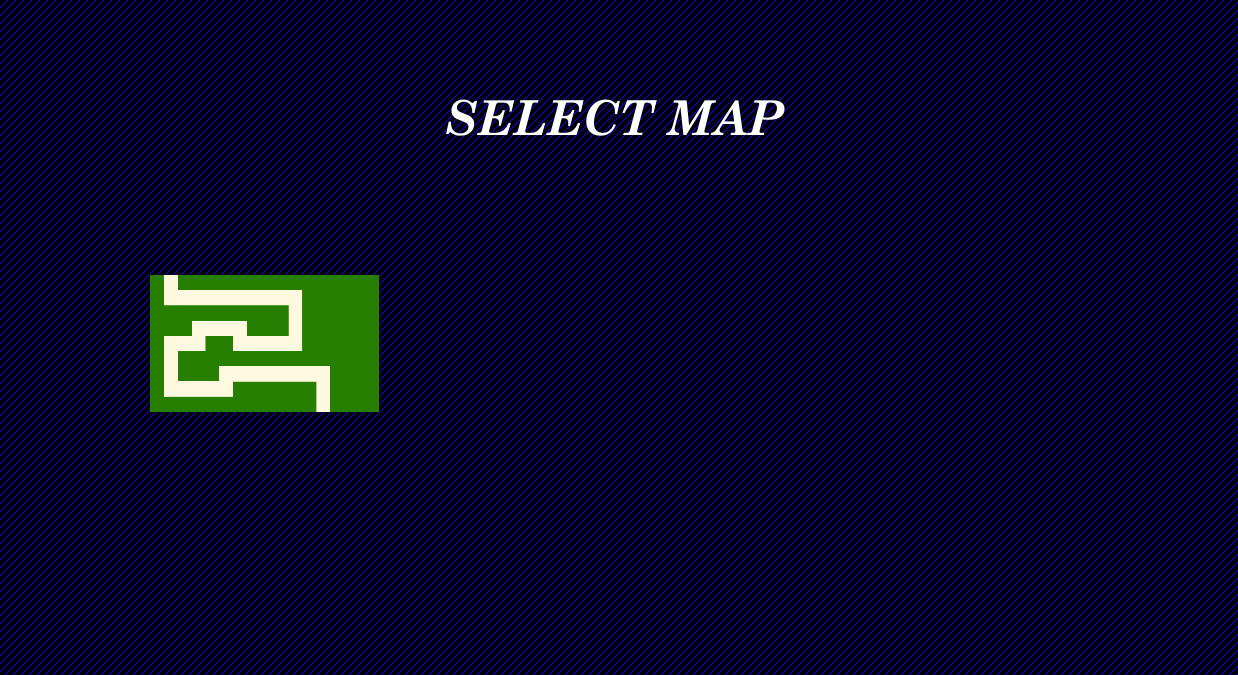
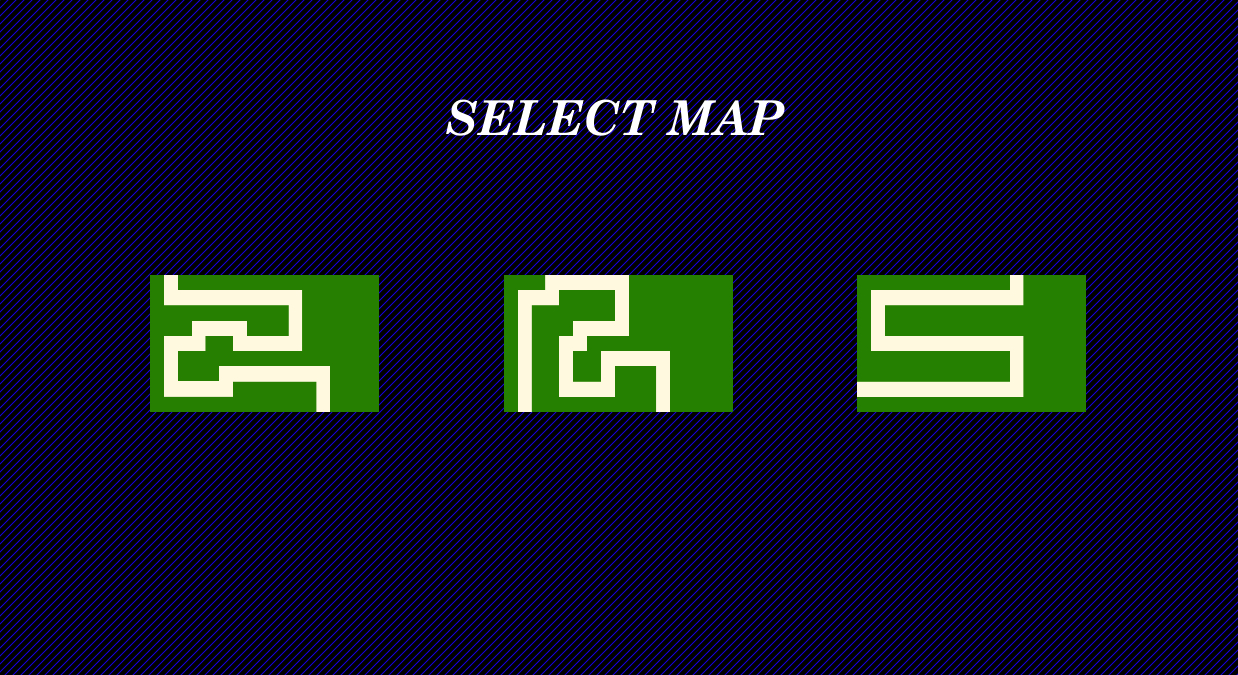
koet

Changed region(s): [[0.6753, 0.4044, 0.8901, 0.6222], [0.399, 0.4044, 0.6139, 0.6222]]

diff --git a/src/main/java/game/scenes/MapSelector.java b/src/main/java/game/scenes/MapSelector.java
@@ -6,11 +6,6 @@ import com.github.hanyaeger.api.scenes.StaticScene;
 import com.github.hanyaeger.api.scenes.YaegerScene;
 import game.BonkTheTowerTD;
 import game.buttons.SceneSwitchButton;
-import javafx.scene.paint.Color;
-import javafx.scene.text.Font;
-import javafx.scene.text.FontWeight;
-
-import static javafx.scene.paint.Color.rgb;
 
 public class MapSelector extends StaticScene implements YaegerScene {
     private BonkTheTowerTD bonkTheTowerTD;
@@ -27,17 +22,17 @@ public class MapSelector extends StaticScene implements YaegerScene {
     @Override
     public void setupEntities() {
         var map1 = new SceneSwitchButton(
-                new Coordinate2D(getWidth() / bonkTheTowerTD.buttonWidthLeft, getHeight() / bonkTheTowerTD.buttonHeightBelowCenter), this.bonkTheTowerTD, 1, "Map 1");
+                new Coordinate2D(getWidth() / bonkTheTowerTD.buttonWidthLeft, getHeight() / bonkTheTowerTD.buttonHeightBelowCenter), this.bonkTheTowerTD, 2, "Map 1");
         map1.setAnchorPoint(AnchorPoint.CENTER_RIGHT);
         addEntity(map1);
 
         var map2 = new SceneSwitchButton(
-                new Coordinate2D(getWidth() / bonkTheTowerTD.buttonWidthCenter, getHeight() / bonkTheTowerTD.buttonHeightBelowCenter), this.bonkTheTowerTD, 1, "Map 2");
+                new Coordinate2D(getWidth() / bonkTheTowerTD.buttonWidthCenter, getHeight() / bonkTheTowerTD.buttonHeightBelowCenter), this.bonkTheTowerTD, 3, "Map 2");
         map2.setAnchorPoint(AnchorPoint.CENTER_CENTER);
         addEntity(map2);
 
         var map3 = new SceneSwitchButton(
-                new Coordinate2D(getWidth() / bonkTheTowerTD.buttonWidthRight, getHeight() / bonkTheTowerTD.buttonHeightBelowCenter), this.bonkTheTowerTD, 1, "Map 3");
+                new Coordinate2D(getWidth() / bonkTheTowerTD.buttonWidthRight, getHeight() / bonkTheTowerTD.buttonHeightBelowCenter), this.bonkTheTowerTD, 4, "Map 3");
         map3.setAnchorPoint(AnchorPoint.CENTER_LEFT);
         addEntity(map3);
     }

diff --git a/src/main/java/game/BonkTheTowerTD.java b/src/main/java/game/BonkTheTowerTD.java
@@ -31,6 +31,6 @@ public class BonkTheTowerTD extends YaegerGame {
         addScene(2, new MapOne(this));
         addScene(3, new MapTwo(this));
         addScene(4, new MapThree(this));
-        addScene(3, new FinalScreen(this));
+        addScene(5, new FinalScreen(this));
     }
 }

diff --git a/src/main/java/game/scenes/maps/MapTwo.java b/src/main/java/game/scenes/maps/MapTwo.java
@@ -8,9 +8,7 @@ public class MapTwo extends StaticScene {
     }
 
     @Override
-    public void setupScene() {
-
-    }
+    public void setupScene() {setBackgroundImage("backgrounds/map_2_with_shop.jpg");}
 
     @Override
     public void setupEntities() {

diff --git a/src/main/java/game/scenes/maps/MapThree.java b/src/main/java/game/scenes/maps/MapThree.java
@@ -9,7 +9,7 @@ public class MapThree extends StaticScene {
 
     @Override
     public void setupScene() {
-
+        setBackgroundImage("backgrounds/map_3_with_shop.jpg");
     }
 
     @Override
